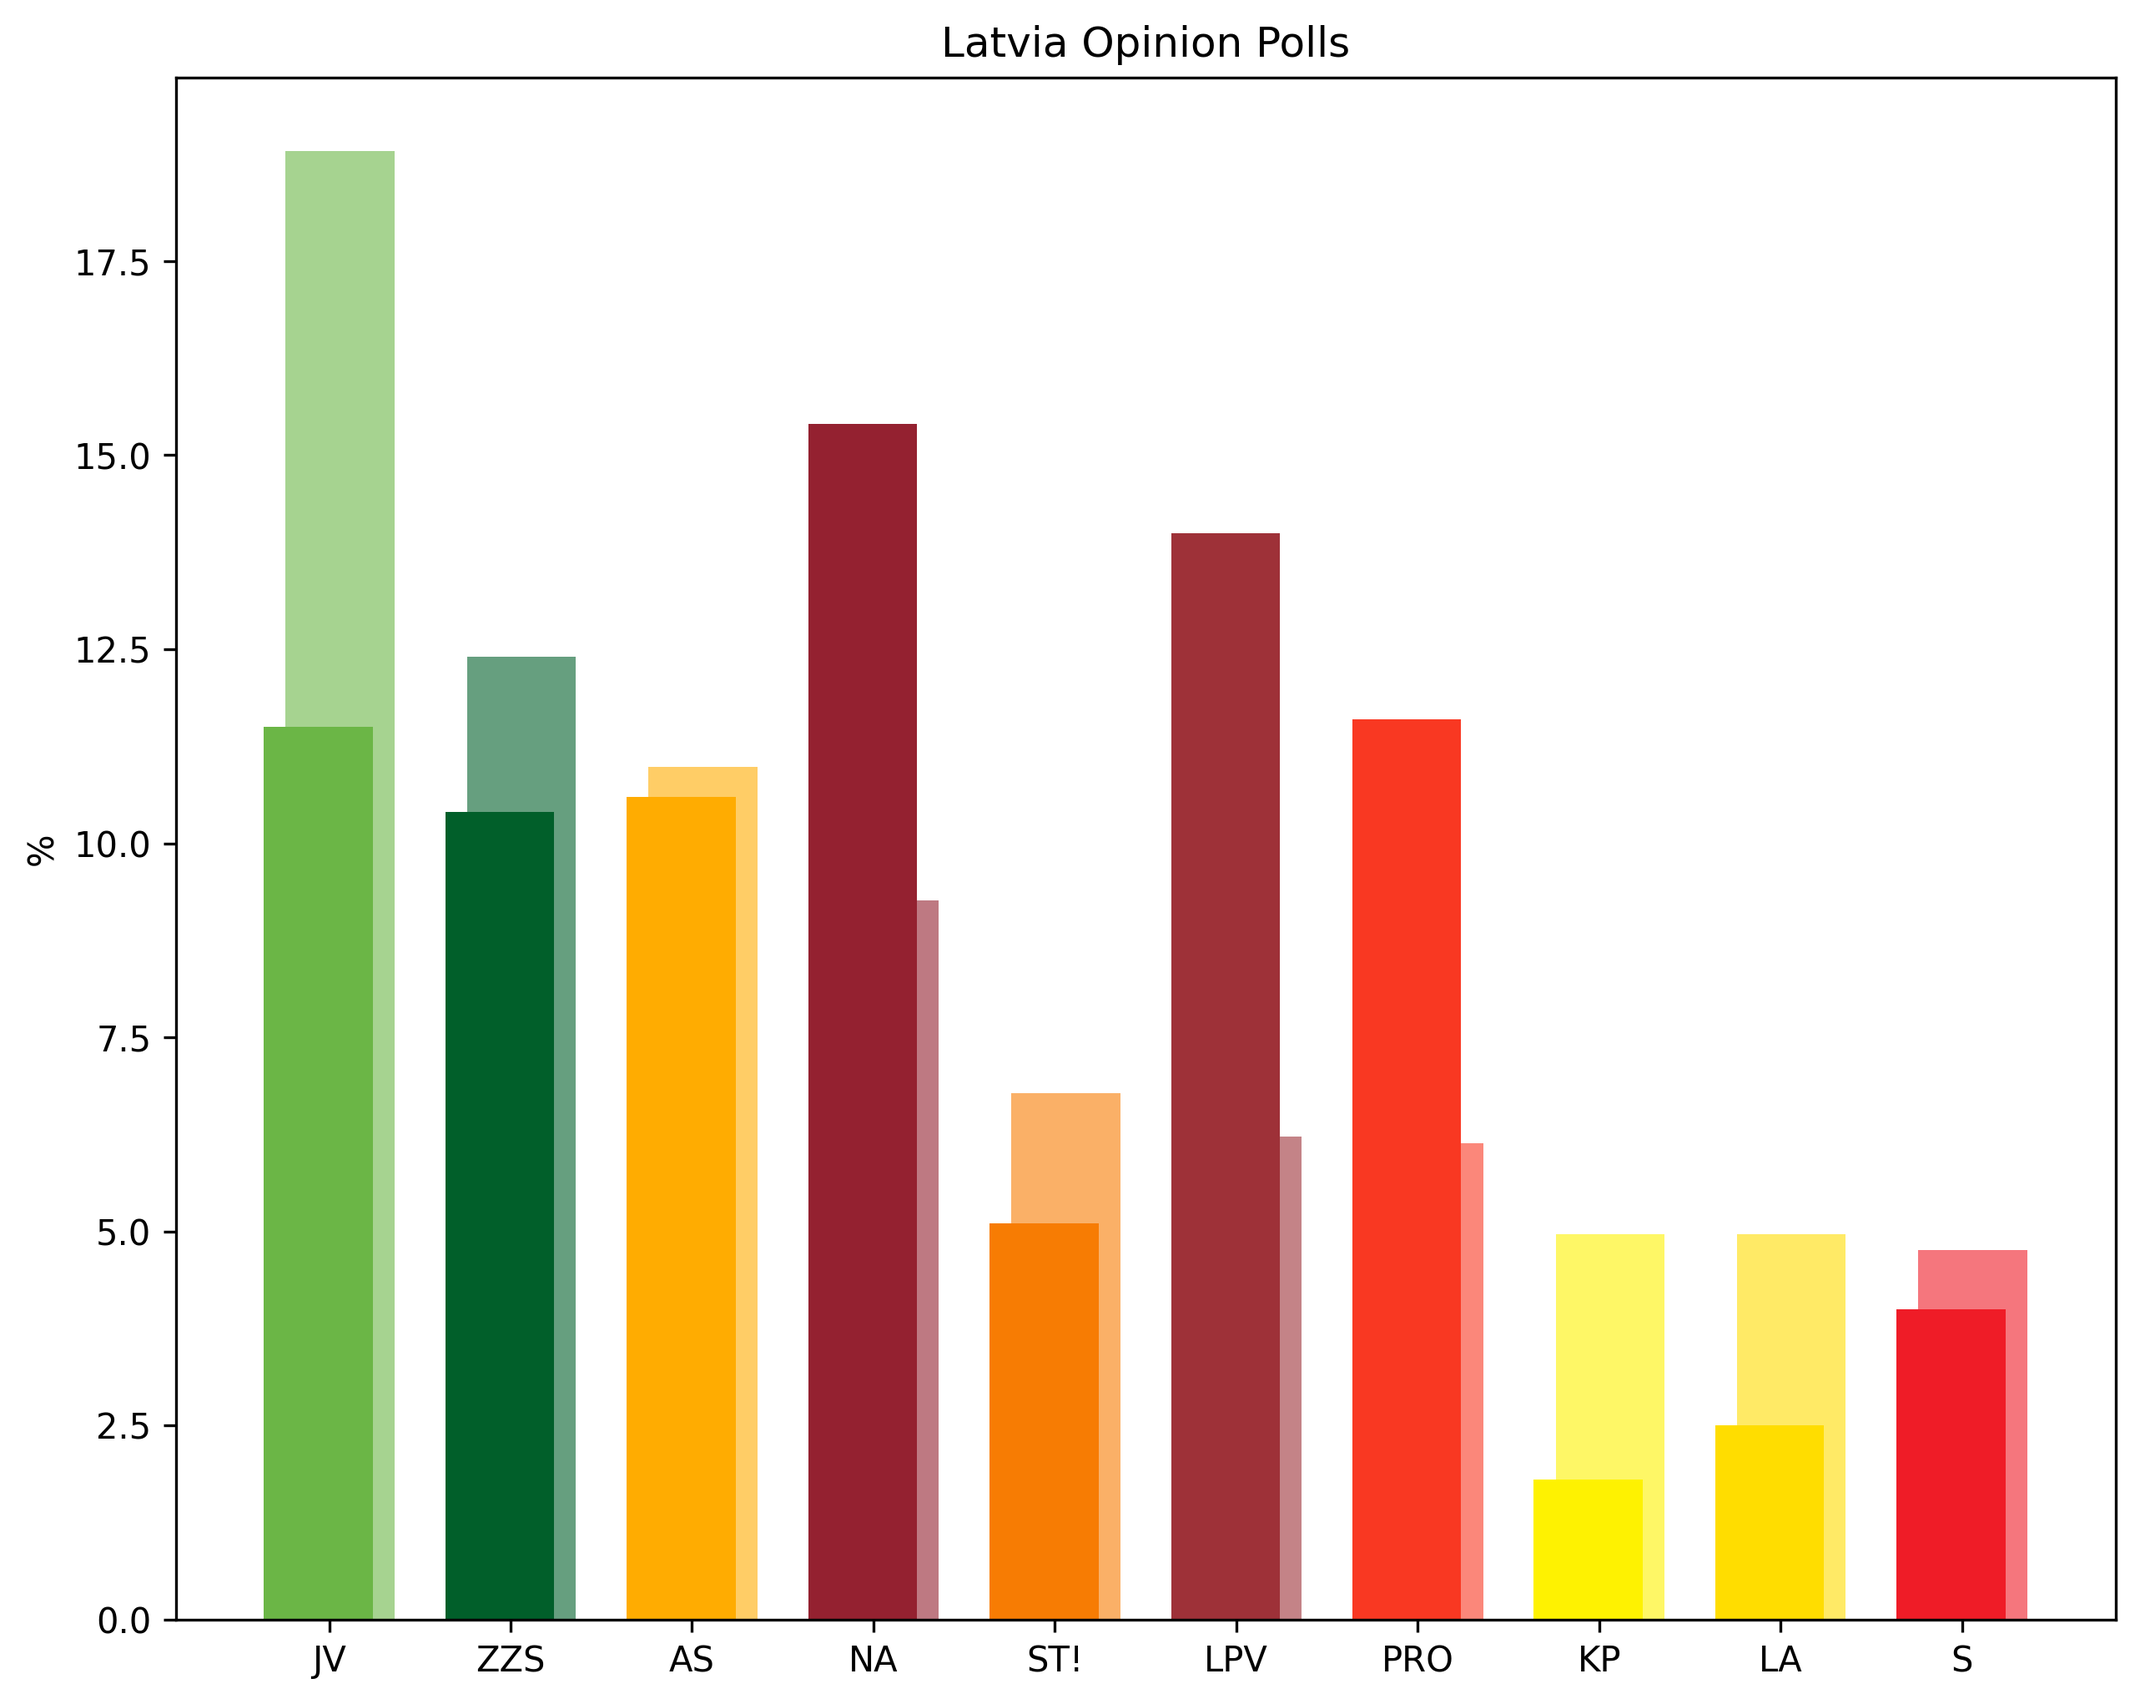
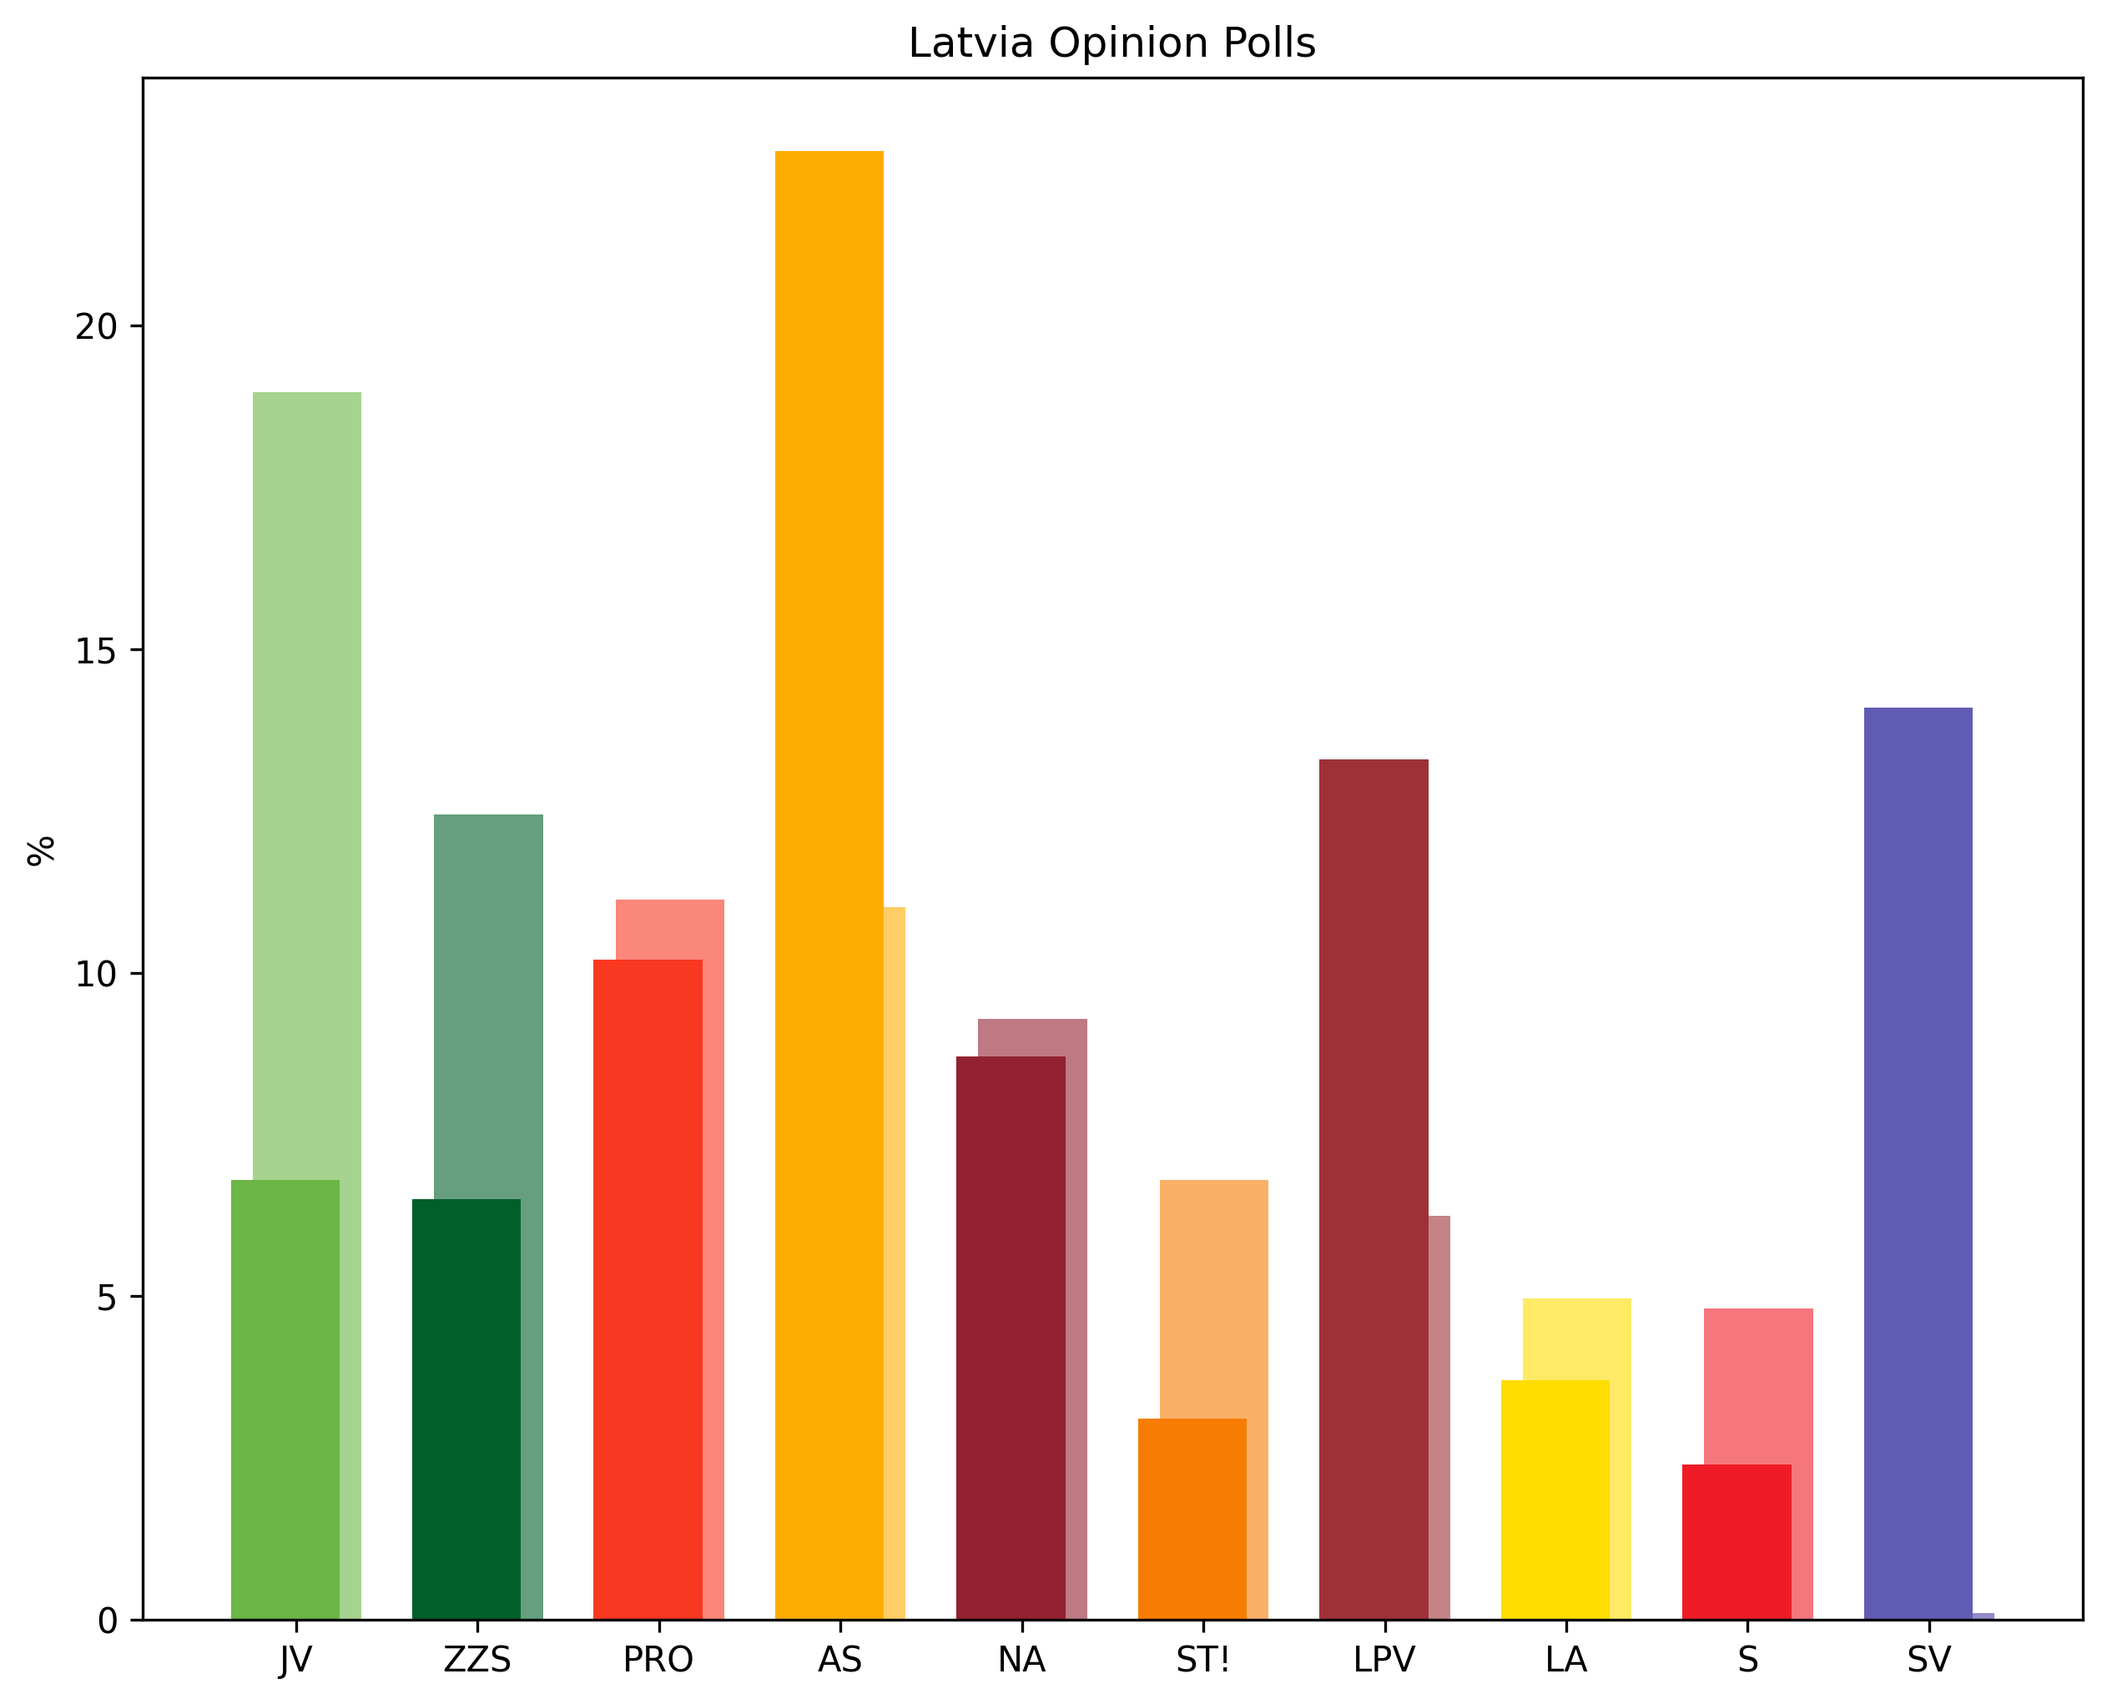
Updated Latvia

diff --git a/Europe/NorthEurope/Latvia.py b/Europe/NorthEurope/Latvia.py
@@ -1,19 +1,19 @@
 import matplotlib.pyplot as plt
 import numpy as np
 
-parties = ['JV', 'ZZS', 'AS', 'NA', 'ST!', 'LPV', 'PRO', 'KP', 'LA', 'S']
-polling_2025 = [11.5, 10.4, 10.6, 15.4, 5.1, 14.0, 11.6, 1.8, 2.5, 4.0]
-election_2022 = [18.92, 12.40, 10.98, 9.27, 6.78, 6.22, 6.14, 4.96, 4.96, 4.76]
+parties = ['JV', 'ZZS', 'PRO', 'AS', 'NA', 'ST!', 'LPV', 'LA', 'S', 'SV']
+polling_2026 = [6.8, 6.5, 10.2, 22.7, 8.7, 3.1, 13.3, 3.7, 2.4, 14.1]
+election_2022 = [18.97, 12.44, 11.13, 11.01, 9.29, 6.80, 6.24, 4.96, 4.81, 0.10]
 
-poll_colors = ['#6bb646', '#015f2a', '#ffac01', '#942130', '#f77c03', '#9e3138', '#f93822', '#fef201', '#ffdd00', '#ef1c27']
-election_colors = ['#a6d390', '#669f7f', '#ffcd66', '#be7982', '#fab067', '#c48387', '#fb877a', '#fef766', '#ffea66', '#f5767d']
+poll_colors = ['#6bb646', '#015f2a', '#f93822', '#ffac01', '#942130', '#f77c03', '#9e3138', '#ffdd00', '#ef1c27', '#615cb3']
+election_colors = ['#a6d390', '#669f7f', '#fb877a', '#ffcd66', '#be7982', '#fab067', '#c48387', '#ffea66', '#f5767d', '#908cc9']
 
 x = np.arange(len(parties))
 width = 0.6
 
 fig, ax = plt.subplots(figsize=(10, 8))
 ax.bar(x + width/10, election_2022, width=width, color=election_colors, label='2022 Election')
-ax.bar(x - width/10, polling_2025, width=width, color=poll_colors, label='August 2025 Polling')
+ax.bar(x - width/10, polling_2026, width=width, color=poll_colors, label='September 2026 Polling')
 
 ax.set_ylabel('%')
 ax.set_xticks(x)
